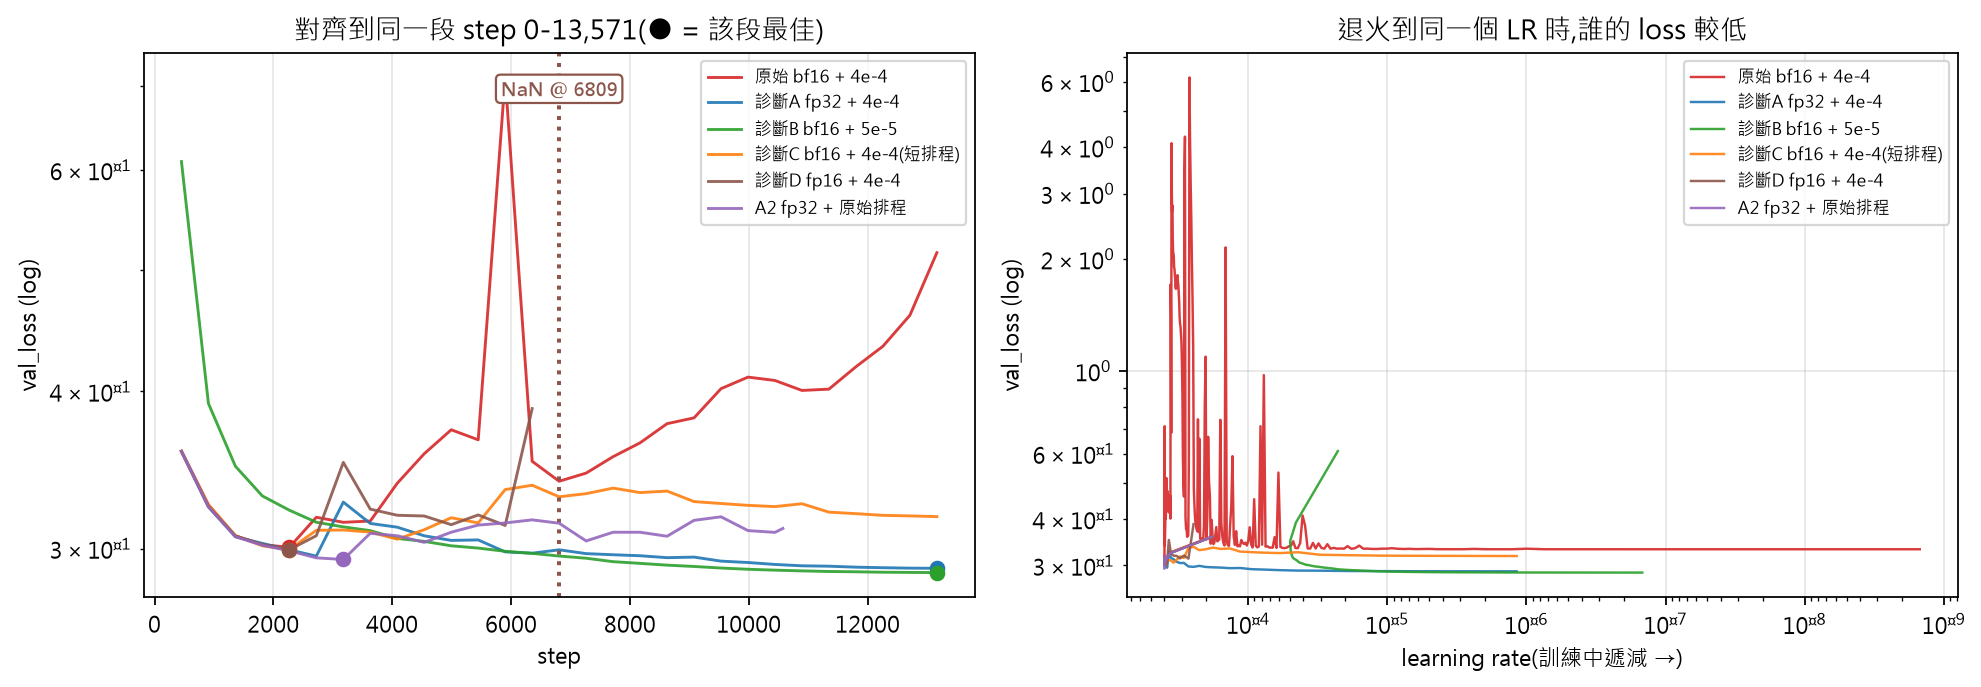
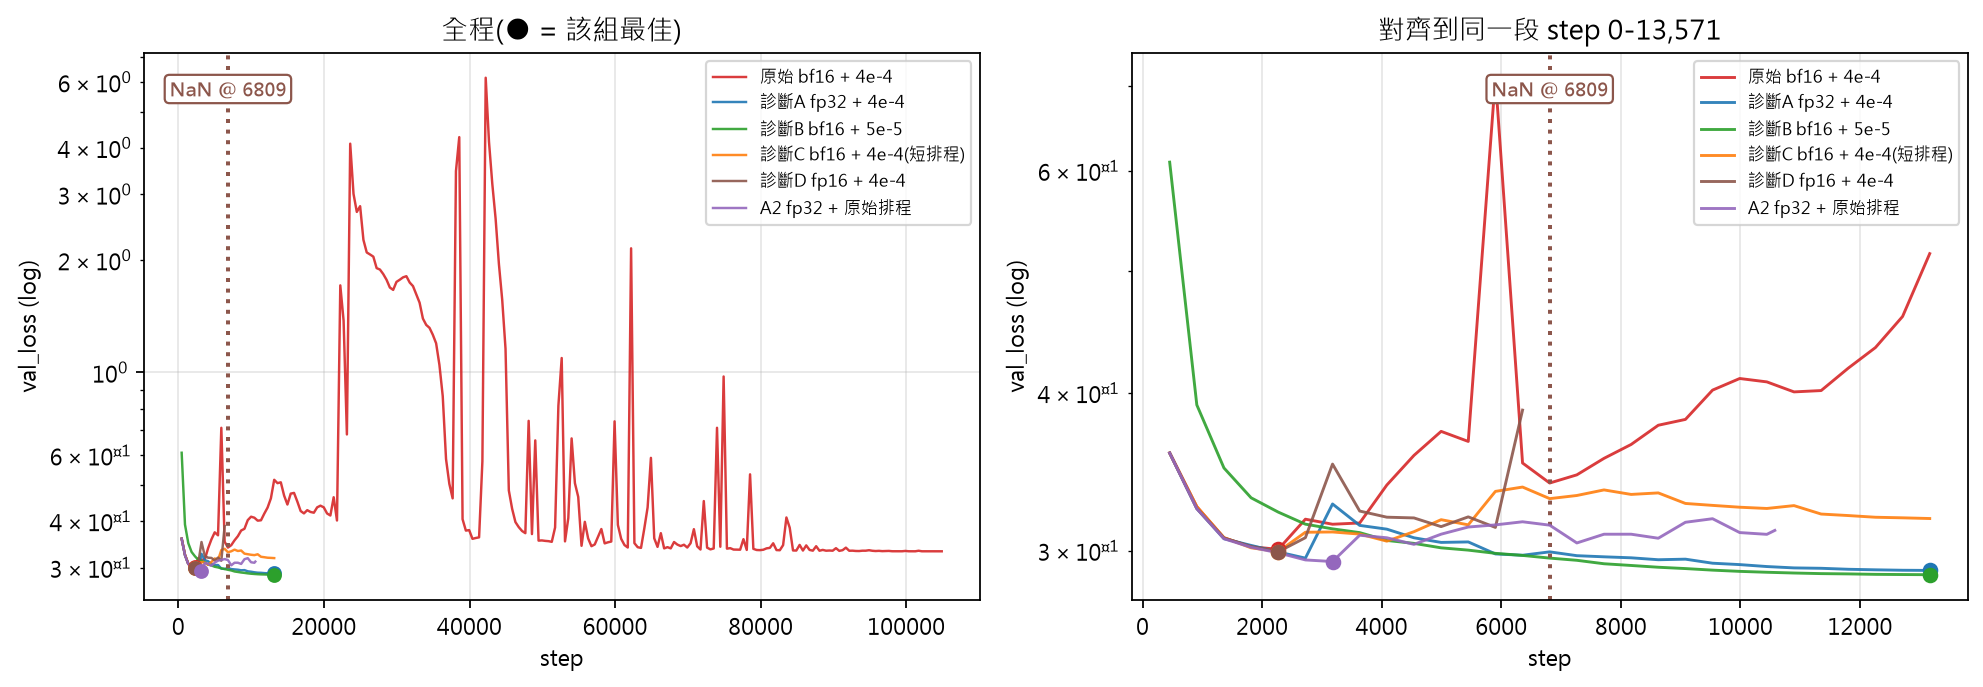
docs: swap the LR-axis loss panel for the full-range one; split overloaded pages
Figure 5b now shows the full run beside the aligned window, dropping the
val_loss-against-learning-rate view. The full range makes the original run's
mid-training spikes visible, which the aligned window cuts off. Notes below the
figure state that run lengths differ eightfold so the left panel's x-axis is
shape-only, and that the diagnostics' smoother curves come from sampling val 29
times against the original's 231, not from steadier training.

The report had a table and two figures sharing one page — sections 5c, 5d and 6
ran together without page breaks. Each now gets its own page, and the singularity
and inference pages get the bullets that were previously carried only in the
appendix. Section numbering ran 6 then 9; the tail is now 7.

diff --git a/analysis/2026-08-05_簡報.md b/analysis/2026-08-05_簡報.md
@@ -35,7 +35,6 @@ hr    { border: none; border-top: 1px solid #ddd; margin: 8px 0; }
 <img src="figures/fig08_grids.png">
 
 - **每一格 = 一個 patch = 一個 token**
-- 實際還要乘垂直 8 層 ⇒ r =0.05度: 780×8 = **6,240**, r= 180×8 = **1,440**
 - 相對笛卡兒,極座標的**格點數多 12%**;token 變少主要來自 patch 放大(16 格 → 48 格)
 
 <div class="pb"></div>
@@ -58,101 +57,98 @@ hr    { border: none; border-top: 1px solid #ddd; margin: 8px 0; }
 
 <div class="pb"></div>
 
-## 3 · 效能:Throughput 提升 80×
-
-<img src="figures/fig10_throughput.png">
-
-- 每 epoch **2.85 小時 → 2.1 分鐘**;牆鐘 199.6 小時 → **6.7 小時**
-- 重點不是喊倍數,而是**能拆開、且乘起來對得上**(估計 82× vs 實測 80×)
-
-<div class="pb"></div>
-
-## 3b · 本次訓練配置
+## 3 · 目前訓練配置
 
 | | r=0.05° 版 | **本次(r=0.25°)** |
 |---|---|---|
 | GPU | 4 張 | **8 張 H200** |
 | 每卡 batch | 1 | **4** |
-| **等效 batch** | 4 | **32** |
-| **精度** | fp32 | **bf16-mixed** <span class="warn">← 後證實會發散</span> |
-| 峰值學習率 | 4e-4 | 4e-4 |
+| 精度 | fp32 | **實驗中** |
+| 峰值學習率 | 4e-4 | **實驗中** |
 | warmup | 1,000 步 | 1,000 步 |
 | 梯度裁剪 | 2.0 | 2.0 |
-| `max_steps` | 1,600,000 | **105,000** |
+| `max_steps` | 1,600,000 | 105,000 |
 | 實跑步數 | 252,160(**15.8%**) | **104,979(100%)** |
 | 高空變數 | u, v, t, q, z, w | **vt, vr**, t, q, z, w |
-| 牆鐘 | 199.6 小時 | **6.7 小時** |
-
-- `max_steps` 決定 cosine 退火曲線 ⇒ **設成跑得完的數字**,否則學習率永遠退不完
-- 每卡 batch 1 → 4:**batch 1 會讓 H200 嚴重閒置**,這是 80× 裡佔 4× 的來源
+| 總時數 | 199.6 小時 | **6.7 小時** |
 
 <div class="pb"></div>
 
-## 4 · Bug 修正:失效的位置偏置(B7)
+#### 效能: 估計Throughput 提升 80×
 
-**問題** — `earth_specific_bias` 本該提供注意力的相對位置資訊,但:
+<img src="figures/fig10_throughput.png">
 
-- 用 `torch.zeros` 建立,`nn.Parameter(...)` 與 `trunc_normal_` 被註解掉
-  ⇒ **不是 Parameter、不進 checkpoint、不被訓練** ⇒ `attention + bias` 數學上是 **no-op**
-- `position_index` 也是普通屬性,不隨 `.to(device)` 移動
-  ⇒ 每步 forward 在 **CPU** 上索引出約 **26 MB** 張量,再搬到 GPU
-
-**修正** — 移除整條死路徑
-
-- forward **快 18%**
-- 輸出**逐元素完全相同**(max diff `0.000e+00`)← 重構的驗收標準
-
-**未完成** — <span class="warn">目前只是移除死碼,還沒重新啟用成真正的 Parameter</span>
-⇒ 模型現在**完全沒有相對位置偏置**,這是後續要補的(第 9 頁第 5 項)
+- 每 epoch **2.85 小時 → 2.1 分鐘**
 
 <div class="pb"></div>
 
-## 5 · 診斷②:梯度爆炸
+
+## 4 · Bug 修正
+
+**問題** — `torch.zeros` 產生的全0 bias仍要搬到GPU運算
+
+**修正** — 移除 `attention + bias` 整條路徑
+
+**結果** — forward **快 18%**
+
+<div class="pb"></div>
+
+## 5 · 實驗結果
+
+#### a. Loss spike + 梯度爆炸
 
 <img src="figures/fig05_gradient_norm.png">
 
-- 同一段 step 內,梯度範數中位數 **0.28 → 147**,**66% 的步驟被裁剪**(健康值 < 1%)
-- 裁剪飽和 ⇒ 優化器實際在做**固定步長**更新,**有效學習率由裁剪決定,而非排程**
-- 惡化時點極銳利:step 3,999 仍是 0.20,step 4,000–4,999 跳到 2.25
+- 第一版bf16 + 0.0004 學習率導致梯度爆炸
+- 改小學習率後試跑穩定，待實驗
 
 <div class="pb"></div>
 
-## 6 · 結案:成因是 **16-bit 精度**
+#### b. 初步實驗結果
 
 <img src="figures/fig09_precision_matrix.png">
 
-- 五組**單變數**短診斷(各 < 1.5 小時)把「一次改五項、無法歸因」拆開
-- **兩種 16-bit 從相反方向失敗**:bf16 精度不足 ⇒ 誤差**漸進**累積到 1.1e4;fp16 範圍不足 ⇒ step 6,321 **突然** NaN
-- **同時洗清三個嫌疑**:R=41 網格、vt/vr 變數、batch 32 — 診斷 A 具備這三項卻完全健康
+- 目標維持bf16/fp16
 
 <div class="pb"></div>
 
-## 7 · 推論端:目前還無法產圖
+#### c. 效能瓶頸(GPU 利用率)
+
+**兩個訓練於3 小時的即時量測**
+
+| | GPU 使用率 | 記憶體 | 功耗 | CPU 閒置 | 等 I/O | 節點負載 |
+|---|---|---|---|---|---|---|
+| **bf16**(job 235101) | **15%** | 6.2 / 143.8 GB | 150 W / 700 W | 63–85% | **0%** | 34.5 / 96 核 |
+| **fp32**(job 235102) | 76–100% | 6.4 / 143.8 GB | 235 W / 700 W | 79–80% | **0%** | 24.8 / 96 核 |
+
+- 記憶體只用 **4.4%** ⇒ **batch 還有約 20× 空間**
+- bf16 計算量更小, 閒置更明顯(15% vs 76–100%)。
+
+**下一步**:每卡 batch 4 → 16 或 32,但加大 batch 會改變有效學習率，必須再重調 LR
+
+<div class="pb"></div>
+
+#### d. 中心奇點問題
+
+<img src="figures/fig12_interpolation.png">
+
+- `r = linspace(0, r_max, R)` 第一個值是 **0** ⇒ 不論 θ,`(x,y)` 永遠等於中心
+- ⇒ 最內環 **180 個方位索引到同一格**,值完全相同(第 0 環標準差 = 0)
+- **對 vt/vr 特別糟**:切向風的方向定義依賴 θ,常數環是**自相矛盾的目標**
+
+<div class="pb"></div>
+
+## 6 · 推論端
 
 <img src="figures/fig13_coupling.png">
 
 - 極座標圓只涵蓋 **78.5%**,四角 **21.5% 被填 0**,而這些格點**落在 FCNV2 邊界帶內**
-- 中心估計是從這個**含零值**的 lon/lat 場算的 ⇒ 可能是 +24h 中心差 350 km 的來源
-- 另有 4 個 blocker(ONNX 形狀、變數表、硬編碼 R=201、缺權重)—— 這是下一階段的主要工作
+- 中心估計是從這個**含零值**的 lon/lat 場算的
+- 另有 4 個 blocker(ONNX 形狀、變數表、硬編碼 R=201、缺權重)⇒ 目前無法產圖
 
 <div class="pb"></div>
 
-## 8 · 我犯的三個錯
-
-**① 一次改五項** — 變數、網格、精度、批次、`max_steps` 同時動 ⇒ 成因無法歸因
-
-**② 診斷本身又犯同樣的錯** — 為了縮短時間改 `max_steps`,但 cosine 長度來自
-`min(每epoch步數 × max_epochs, max_steps)`,**等於同時改了學習率軌跡**。
-改用 `max_time` 才修好
-
-**③ 精度選錯是我的判斷失誤** — 改用 bf16 的理由是「避免溢位」,
-但原版 LLAT 用 fp16 訓練成功,證明**範圍從來不是瓶頸** — 而 bf16 是三者中精度最差的
-
-**補救**:`OVERLAY` / `RUNDIR` / `FRESH` 三個環境變數,讓每個實驗只記錄差異、各自獨立、可並行
-
-<div class="pb"></div>
-
-## 9 · 進行中 / 下一步
+## 7 · 進行中 / 下一步
 
 **正在跑(結果尚未納入本報告)**
 
@@ -161,41 +157,18 @@ hr    { border: none; border-top: 1px solid #ddd; margin: 8px 0; }
 | 正式訓練 A | bf16 + LR 5e-5,105,000 步 | 6.9 h |
 | 正式訓練 B | fp32 + LR 4e-4,96,000 步 | 9.0 h |
 
-**接下來(依優先序)**
+**未來展望**
 
-| # | 項目 | 為什麼 |
+| # | 項目 | 原因 |
 |---|---|---|
-| 1 | **再加大 batch** | <span class="warn">**GPU 記憶體只用 4.4%**</span>(6.3 / 143.8 GB),GPU 也沒吃滿 ⇒ 見 A5 |
-| 2 | **推論端 4 個 blocker** | ONNX 形狀、變數表、硬編碼 R=201、缺權重 ⇒ 現在無法產圖 |
-| 3 | **`r_min = Δr/2`** | 消除中心奇點(訓練端與推論端**須同時改**) |
-| 4 | **徑向 patch 變細** | 目前 2°/patch,內核整個被抹平 —— 與目標②直接衝突 |
-| 5 | **空間權重 `w(r)=r^p`** | 對治外圈欠約束(⚠ p 不宜取 1,否則抵銷目標②) |
-| 6 | **重新啟用位置偏置** | `earth_specific_bias` 目前全零,注意力沒有相對位置資訊(第 4 頁) |
-| 7 | **θ 在 coarse 層仍被補零** | 15 token 不被 window 10 整除 ⇒ 多算 33%,且週期性斷掉 |
+| 1 | **加大 batch** | <span class="warn">**提高GPU 跟記憶體利用率** |
+| 2 | **推論端** | 實驗不同配置 |
+| 3 | **`r_min = Δr/2`** | 消除中心奇點 |
 
 <div class="pb"></div>
 
-# 附錄 — 問答備用
+# 附錄
 
-## A1 · 哪一層先失控
-
-<img src="figures/fig07_epicentre.png">
-
-- 對 191 層各取健康期基準,找**首次超過 10 倍**的 step ⇒ 震央是 `DownSample` 的 LayerNorm
-- 反向傳播順序是 `layer4 → … → downsample → layer1`,若爆炸來自輸出端,`layer4` 該最先失控 — 實測它**最晚**(差近 20,000 步)
-- ⇒ **爆炸在 DownSample 就地產生**。該層健康期梯度僅 0.00056,是全網路最小的幾層之一
-
-<div class="pb"></div>
-
-## A2 · 為什麼最內環的值全部相同
-
-<img src="figures/fig12_interpolation.png">
-
-- `r = linspace(0, r_max, R)` 第一個值是 **0** ⇒ 不論 θ,`(x,y)` 永遠等於中心 ⇒ **180 個方位索引到同一格**
-- 用答案已知的合成場驗證:第 0 環標準差 **= 0**,其餘各環振幅正比於 r(內插本身正確)
-- **對 vt/vr 特別糟**:切向風的方向定義依賴 θ,常數環是**自相矛盾的目標**
-
-<div class="pb"></div>
 
 ## A3 · 未來用 0.1° 資料微調時,該怎麼切?
 
@@ -208,14 +181,13 @@ hr    { border: none; border-top: 1px solid #ddd; margin: 8px 0; }
 
 **兩邊都不該直接沿用,理由不同**
 
-- 學姊 0.05°:**上採樣**,插不出原本沒有的資訊,卻付 4.3× 算力
+-  0.05°:**上採樣**,插不出原本沒有的資訊,卻付 4.3× 算力
 - 本次 0.25°:**丟掉** 0.1° 資料一半以上的細節,微調等於白做
 
 **關鍵取捨:把解析度從 θ 移到 r**
 
 - 颱風的方位結構以**低波數為主**(WN 0–4)。Θ=180 可解析到 WN 89,**遠超需要**
 - 徑向才是眼牆梯度所在 ⇒ **Δr 該縮到 0.1°,Δθ 反而可以放寬到 3°**
-- ⚠ 需檢查整除鏈:`ceil(R/8)` 必須是偶數(B8),且 θ token 要能被 window 整除
 
 <div class="pb"></div>
 
@@ -227,45 +199,5 @@ hr    { border: none; border-top: 1px solid #ddd; margin: 8px 0; }
 - 因為裁剪把每步壓成固定步長,模型仍在往前走,只是方向持續惡化
 - `gap`(val − train)全為負 ⇒ **沒有過擬合**;`spike` 次數才是穩定性的直接指標(原始 76 次,健康組 0–2 次)
 
-**右圖各條線為什麼停在不同的 LR**
-
-`lr = 峰值 × 0.5 × (1 + cos(π × 進度))`,`進度 = (step − warmup) / (max_steps − warmup)`
-
-| | 峰值 LR | `max_steps` | 實跑 | 跑完比例 | 最終 LR |
-|---|---|---|---|---|---|
-| 原始 bf16 | 4e-4 | 105,000 | 104,979 | 100% | 4.0e-11 |
-| 診斷 A/C/D | 4e-4 | 13,600 | 13,571 | 100% | 5.2e-09 |
-| 診斷 B | **5e-5** | 13,600 | 13,571 | 100% | 6.5e-10 |
-| A2 | 4e-4 | 105,000 | **10,555** | **10%** | **3.9e-04** |
-
-① 峰值不同 ⇒ 整條曲線等比例縮放 ② `max_steps` 決定要走多長 ③ 有沒有跑到底
-(A2 被 `max_time` 停在 10% 處,LR 還停在峰值)
-終點不是剛好 0,是因為最後一步不等於 `max_steps`,`cos` 還差一點才走到 π。
 
 <div class="pb"></div>
-
-## A5 · 效能瓶頸:GPU 並沒有吃滿
-
-**兩個正式訓練跑到 3 小時時的即時量測**
-
-| | GPU 使用率 | 記憶體 | 功耗 | CPU 閒置 | 等 I/O | 節點負載 |
-|---|---|---|---|---|---|---|
-| **bf16**(job 235101) | **15%** | 6.2 / 143.8 GB | 150 W / 700 W | 63–85% | **0%** | 34.5 / 96 核 |
-| **fp32**(job 235102) | 76–100% | 6.4 / 143.8 GB | 235 W / 700 W | 79–80% | **0%** | 24.8 / 96 核 |
-
-**三個瓶頸都排除了**
-
-- `wa = 0%` ⇒ **不是 I/O 瓶頸**(資料讀取沒有拖累)
-- CPU 閒置 63–85% ⇒ **不是 CPU 瓶頸**(dataloader 供得上)
-- 記憶體只用 **4.4%** ⇒ **不是記憶體限制**,batch 還有約 20× 空間
-
-**⇒ 推論:每步的固定開銷主導**(kernel 啟動、Python、DDP allreduce)。
-模型只有 24.6 M 參數、每卡 batch 4,GPU 幾毫秒就算完然後等下一批。
-bf16 每步計算量更小,所以閒置更明顯(15% vs 76–100%)。
-
-**下一步**:每卡 batch 4 → 16 或 32,把固定開銷攤平到更多樣本。
-<span class="warn">⚠ 但加大 batch 會改變有效學習率</span> —— 必須**等精度問題定案後**再一起重調 LR,
-否則又是「一次改兩項、無法歸因」。
-
-> 註:GPU 使用率是 10 秒快照,可能落在驗證或存檔階段,**不如記憶體用量可靠**。
-> 記憶體 4.4% 是穩定值,那一項的結論最紮實。
